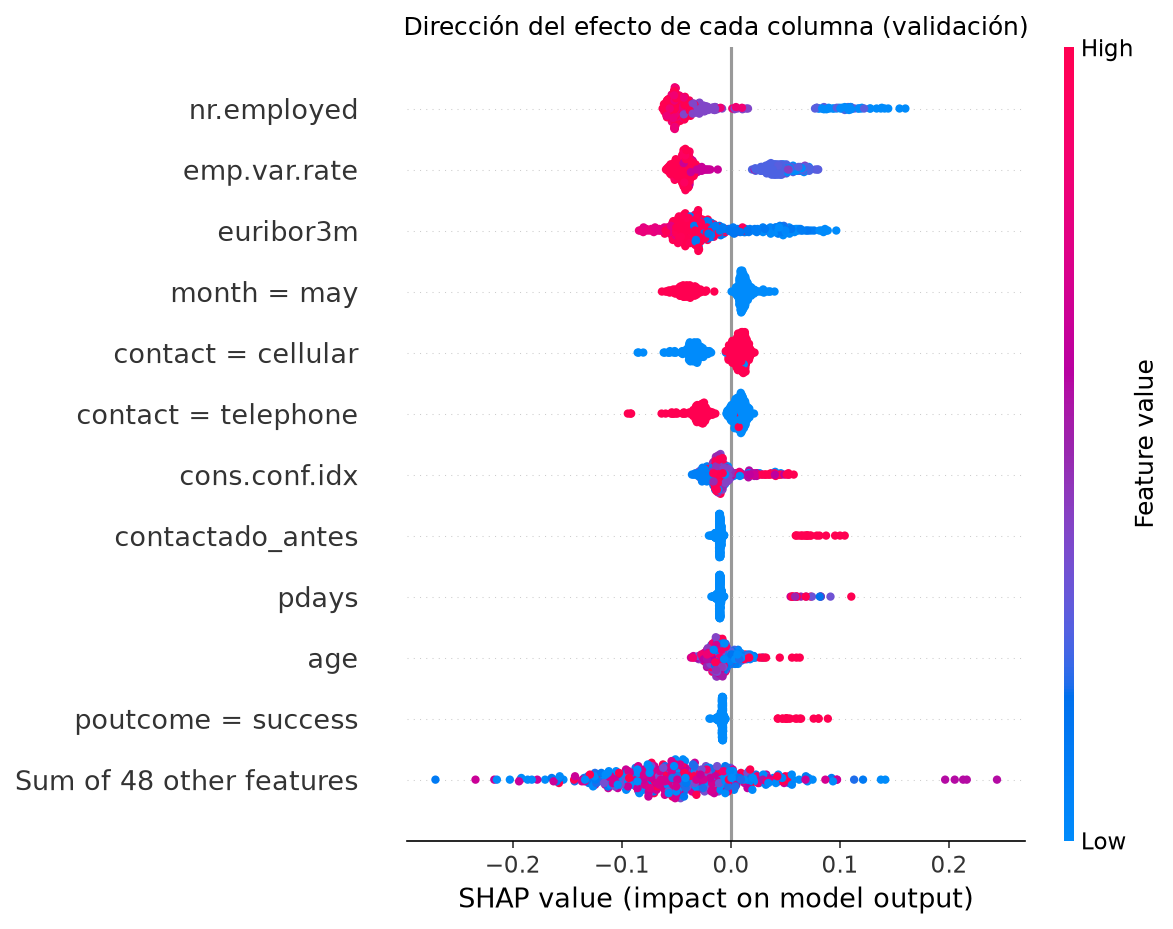
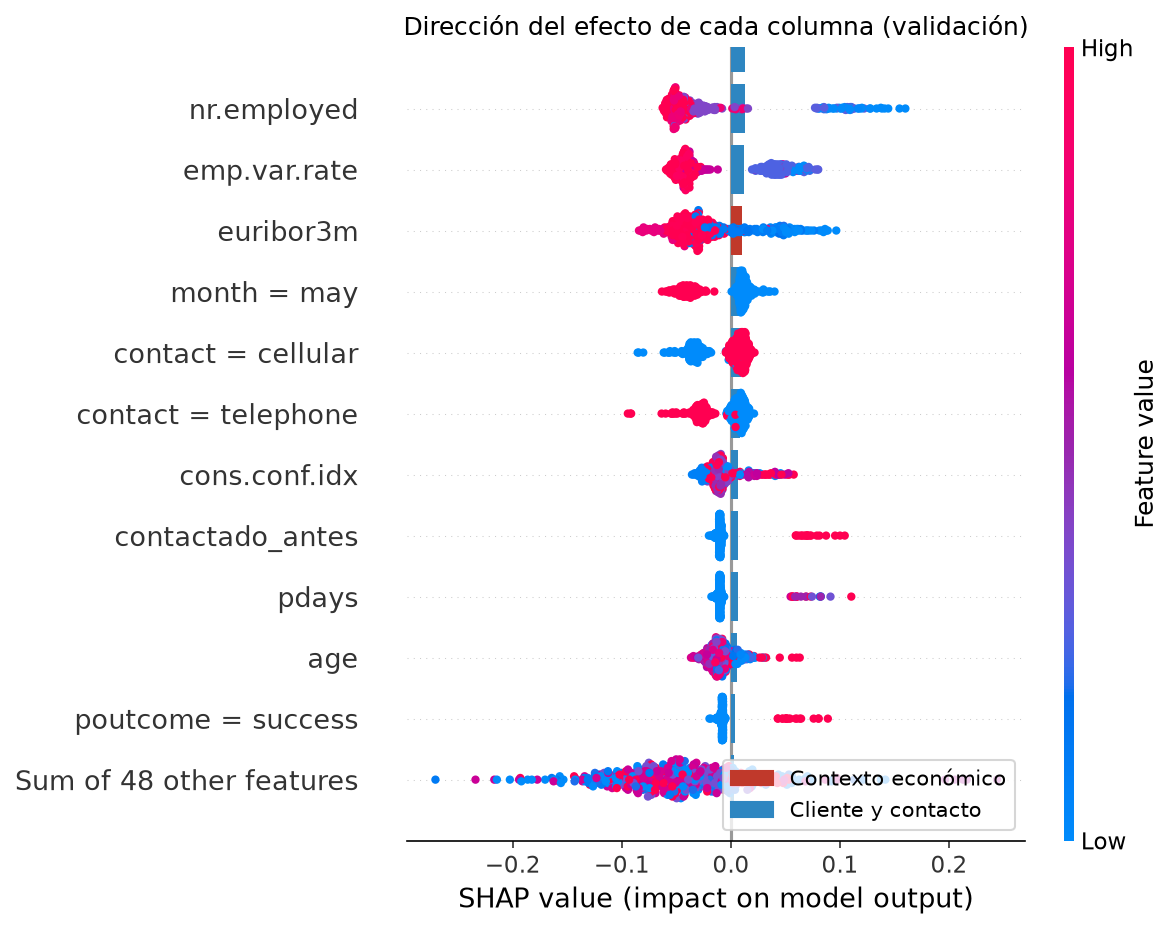
mlflow terminado

diff --git a/README.md b/README.md
@@ -221,11 +221,9 @@ Qué significa para el banco:
 - **De cada 100 llamadas, 42 acaban en venta**, frente a 11 llamando sin criterio: cada llamada rinde casi cuatro veces más.
 - A cambio, 825 llamadas (falsos positivos) se hacen a clientes que no contratan. Es el coste aceptado: una llamada gastada cuesta menos que una venta perdida.
 
-**Experimentos en MLflow:**
+**Experimentos en MLflow.** El experimento común `reto1-deposito-banco` reúne 41 ejecuciones: 3 de regresión logística/KNN/SVM, 16 de Random Forest y XGBoost, 8 de MLP, 12 de Naive Bayes, 1 de SHAP y 1 del modelo final entrenado. Cada run guarda sus parámetros y métricas; las ejecuciones principales permiten comparar las configuraciones ganadoras.
 
-![MLflow](resultados/mlflow.png)
-
-> **PENDIENTE:** captura de `resultados/mlflow.png`.
+La base `mlflow.db` es local y no se incluye en Git. Para reconstruirla en otro equipo hay que ejecutar los notebooks (no basta con abrir sus resultados guardados) y entrenar el modelo final antes de iniciar la interfaz. Comprueba también que el selector de experimento de MLflow muestra `reto1-deposito-banco` y que no hay filtros activos en Runs.
 
 ## Reglas de negocio y acción
 
@@ -302,13 +300,14 @@ pip install -r requirements.txt
 # 2. Descargar bank-additional-full.csv del UCI y dejarlo en data/raw/
 #    http://archive.ics.uci.edu/ml/datasets/Bank+Marketing
 
-# 3. Ejecutar los notebooks en orden (01 primero: genera data/processed/)
+# 3. Ejecutar los notebooks 01-06 en orden (01 genera data/processed/;
+#    02-06 registran las ejecuciones en mlflow.db)
 
-# 4. Ver los experimentos
-mlflow ui --backend-store-uri sqlite:///mlflow.db
-
-# 5. Entrenar y guardar el modelo elegido (models/mejor_modelo.joblib)
+# 4. Entrenar y registrar el modelo final
 python -m src.entrenar_modelo
+
+# 5. Ver todos los experimentos desde la raíz del proyecto
+mlflow ui --backend-store-uri sqlite:///mlflow.db
 
 # 6. Abrir la aplicación
 streamlit run app/streamlit_app.py
